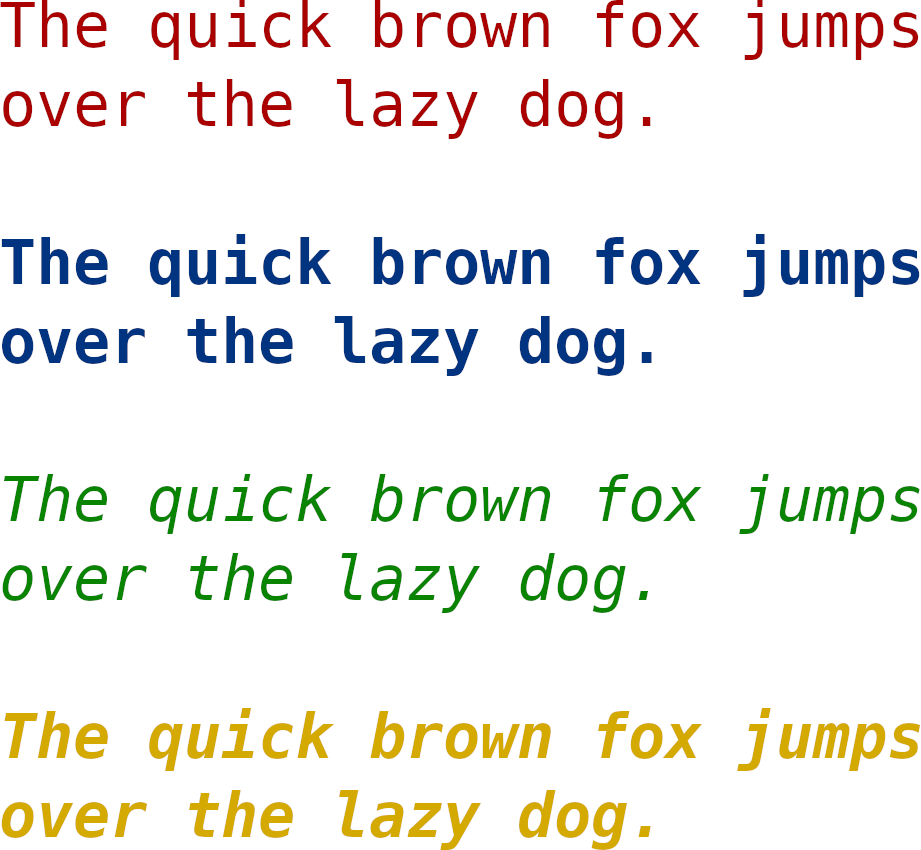
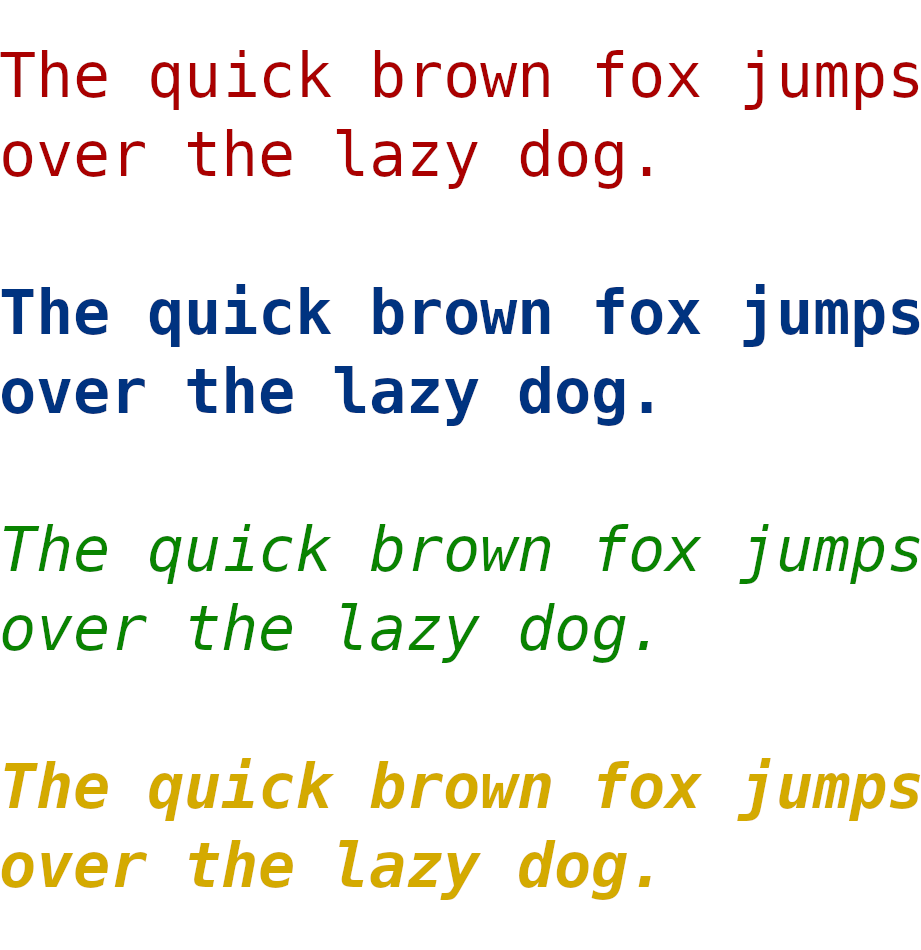
Add smaller images for readme

diff --git a/README.md b/README.md
@@ -14,7 +14,7 @@ in order to fix some issues with it until I realized it would be easier to
 start over from scratch with DejaVu Sans Mono, which is itself based on 
 Bitstream Vera Sans Mono.
 
-![Ipsum lorem](doc/monotional-ipsumlorem.png)
+![Ipsum lorem](doc/monotional-ipsumlorem_s.png)
 
 ### History
 
@@ -23,7 +23,7 @@ v1.0
  * First release! Based on DejaVu Sans Mono 2.37.
  * The main differences are with the following characters: ` 1 i - _ = ' " ^ # * % @ ~ `
 
-![Version 1.0 glyphs](doc/monotional-glyphs.png)
+![Version 1.0 glyphs](doc/monotional-glyphs_s.png)
 
 ### Copyright and Trademark Information
 
